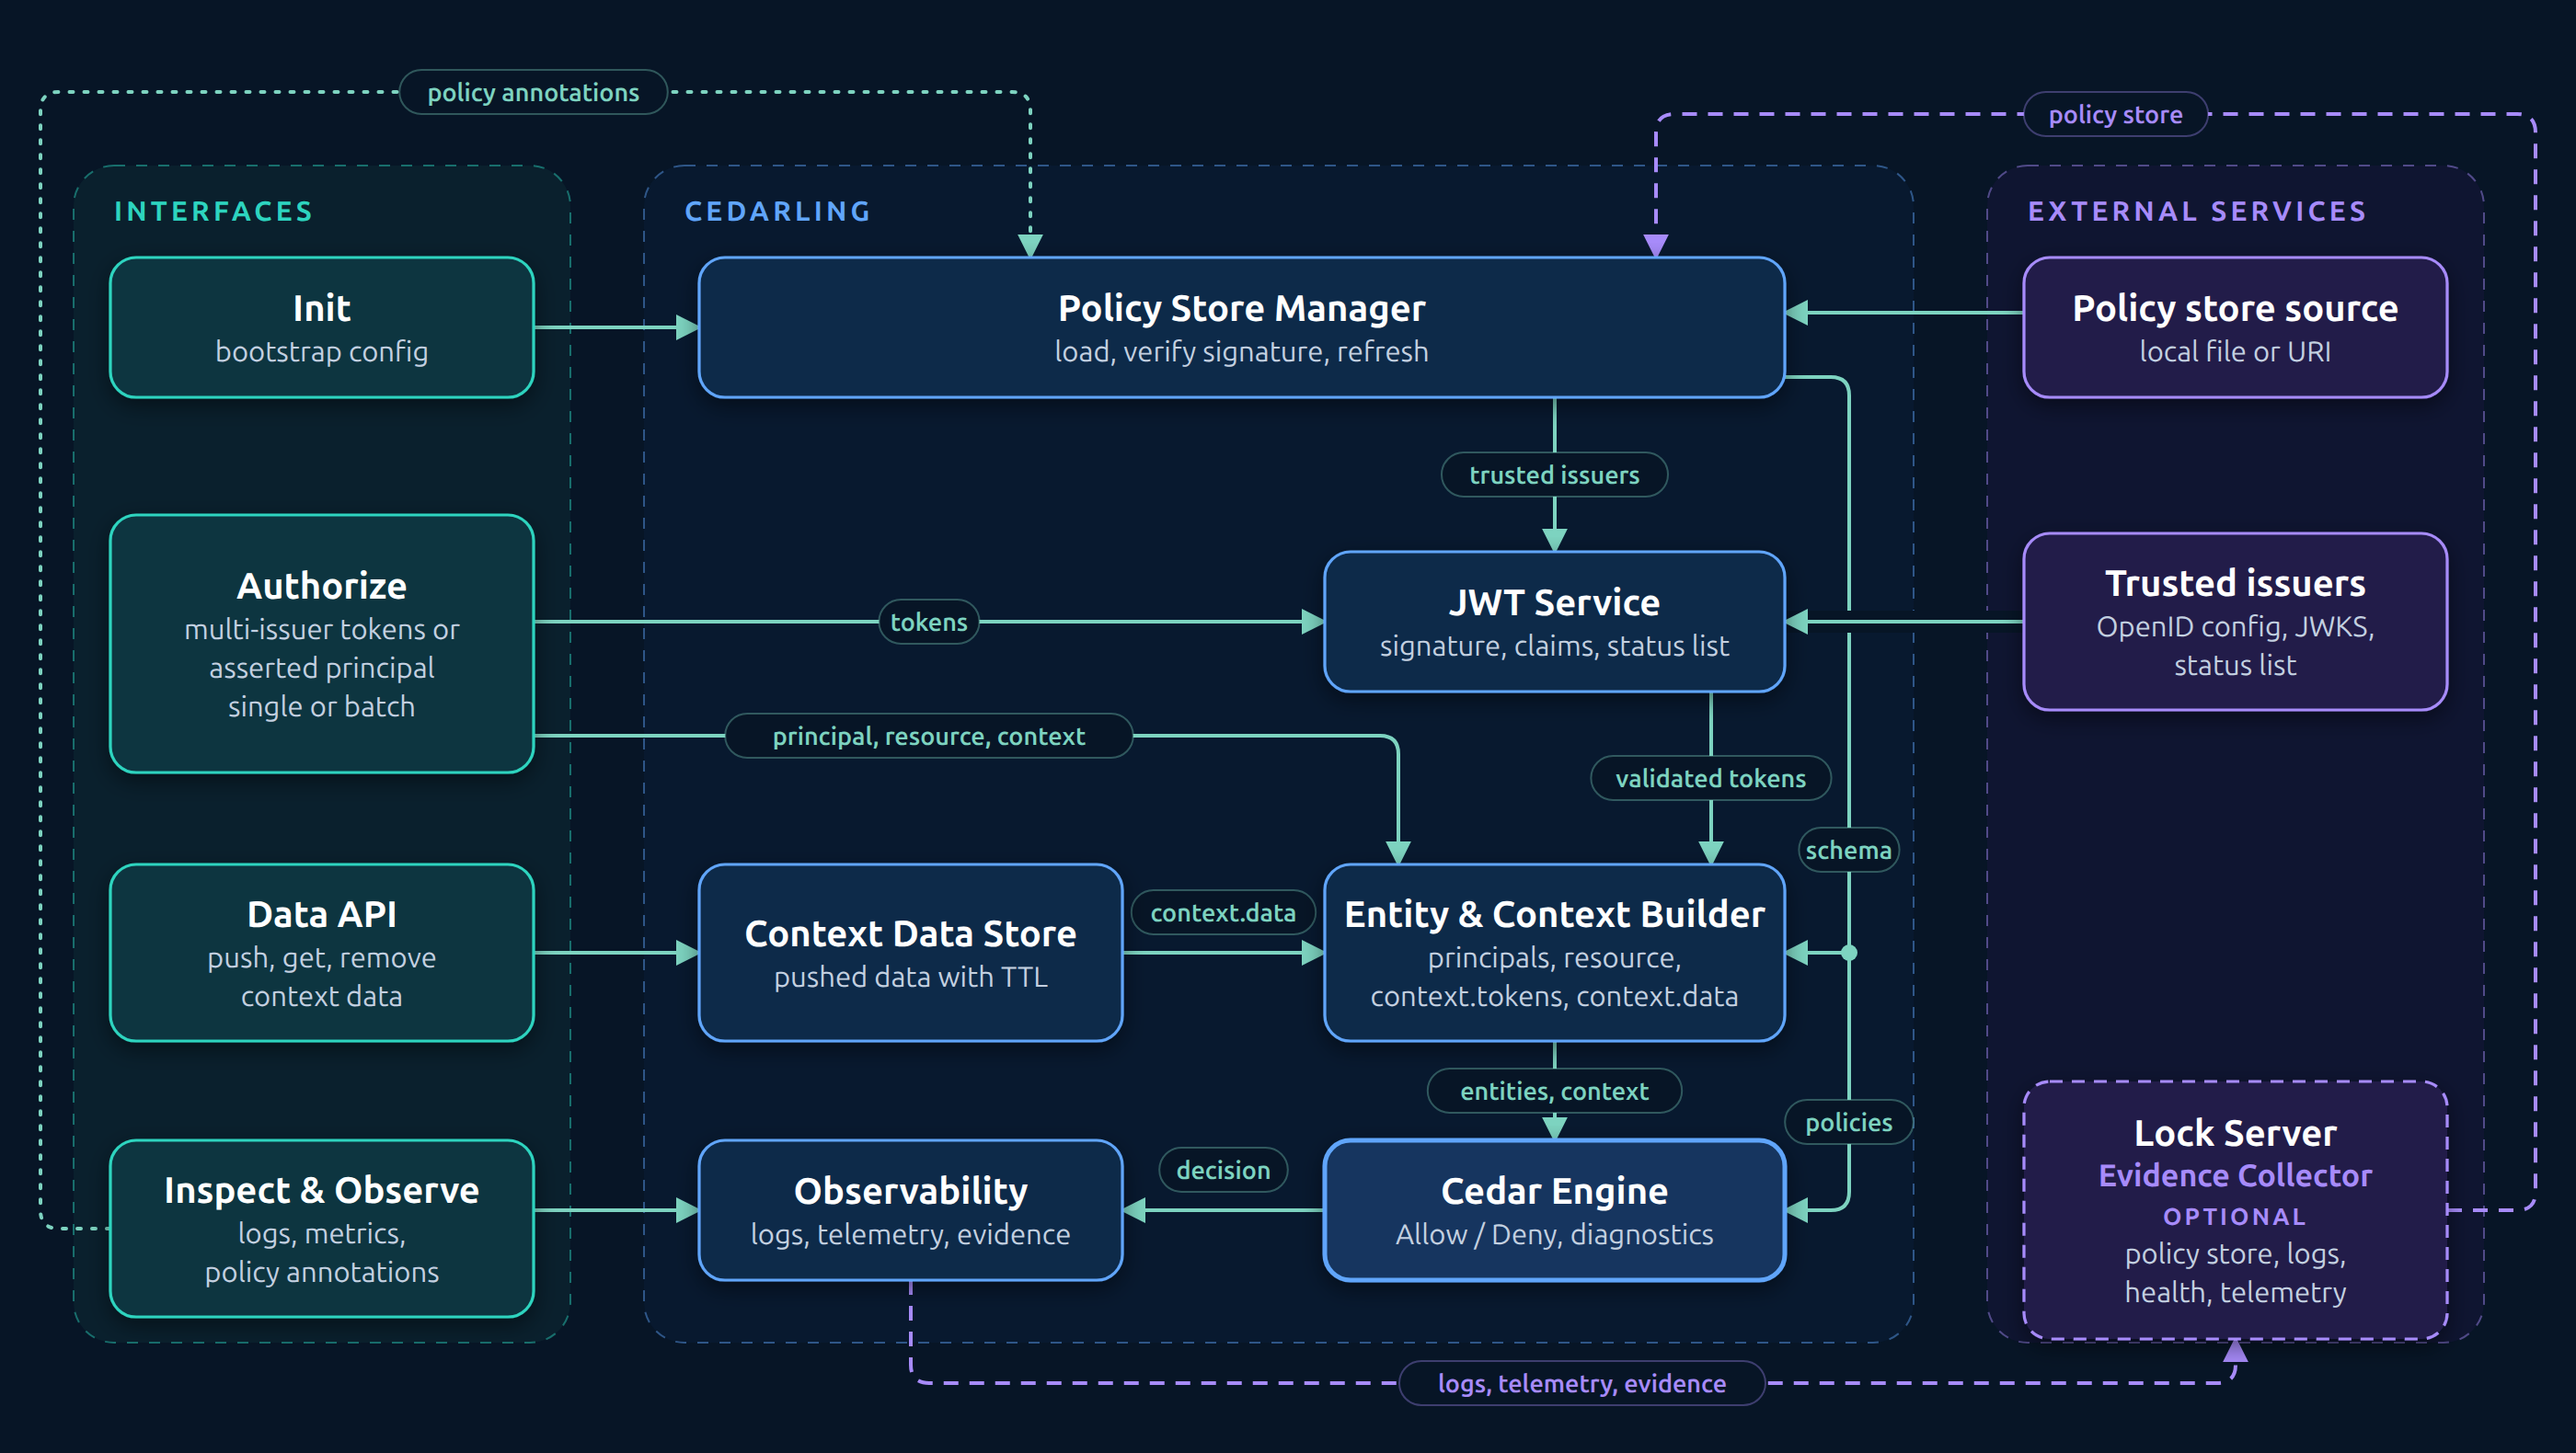
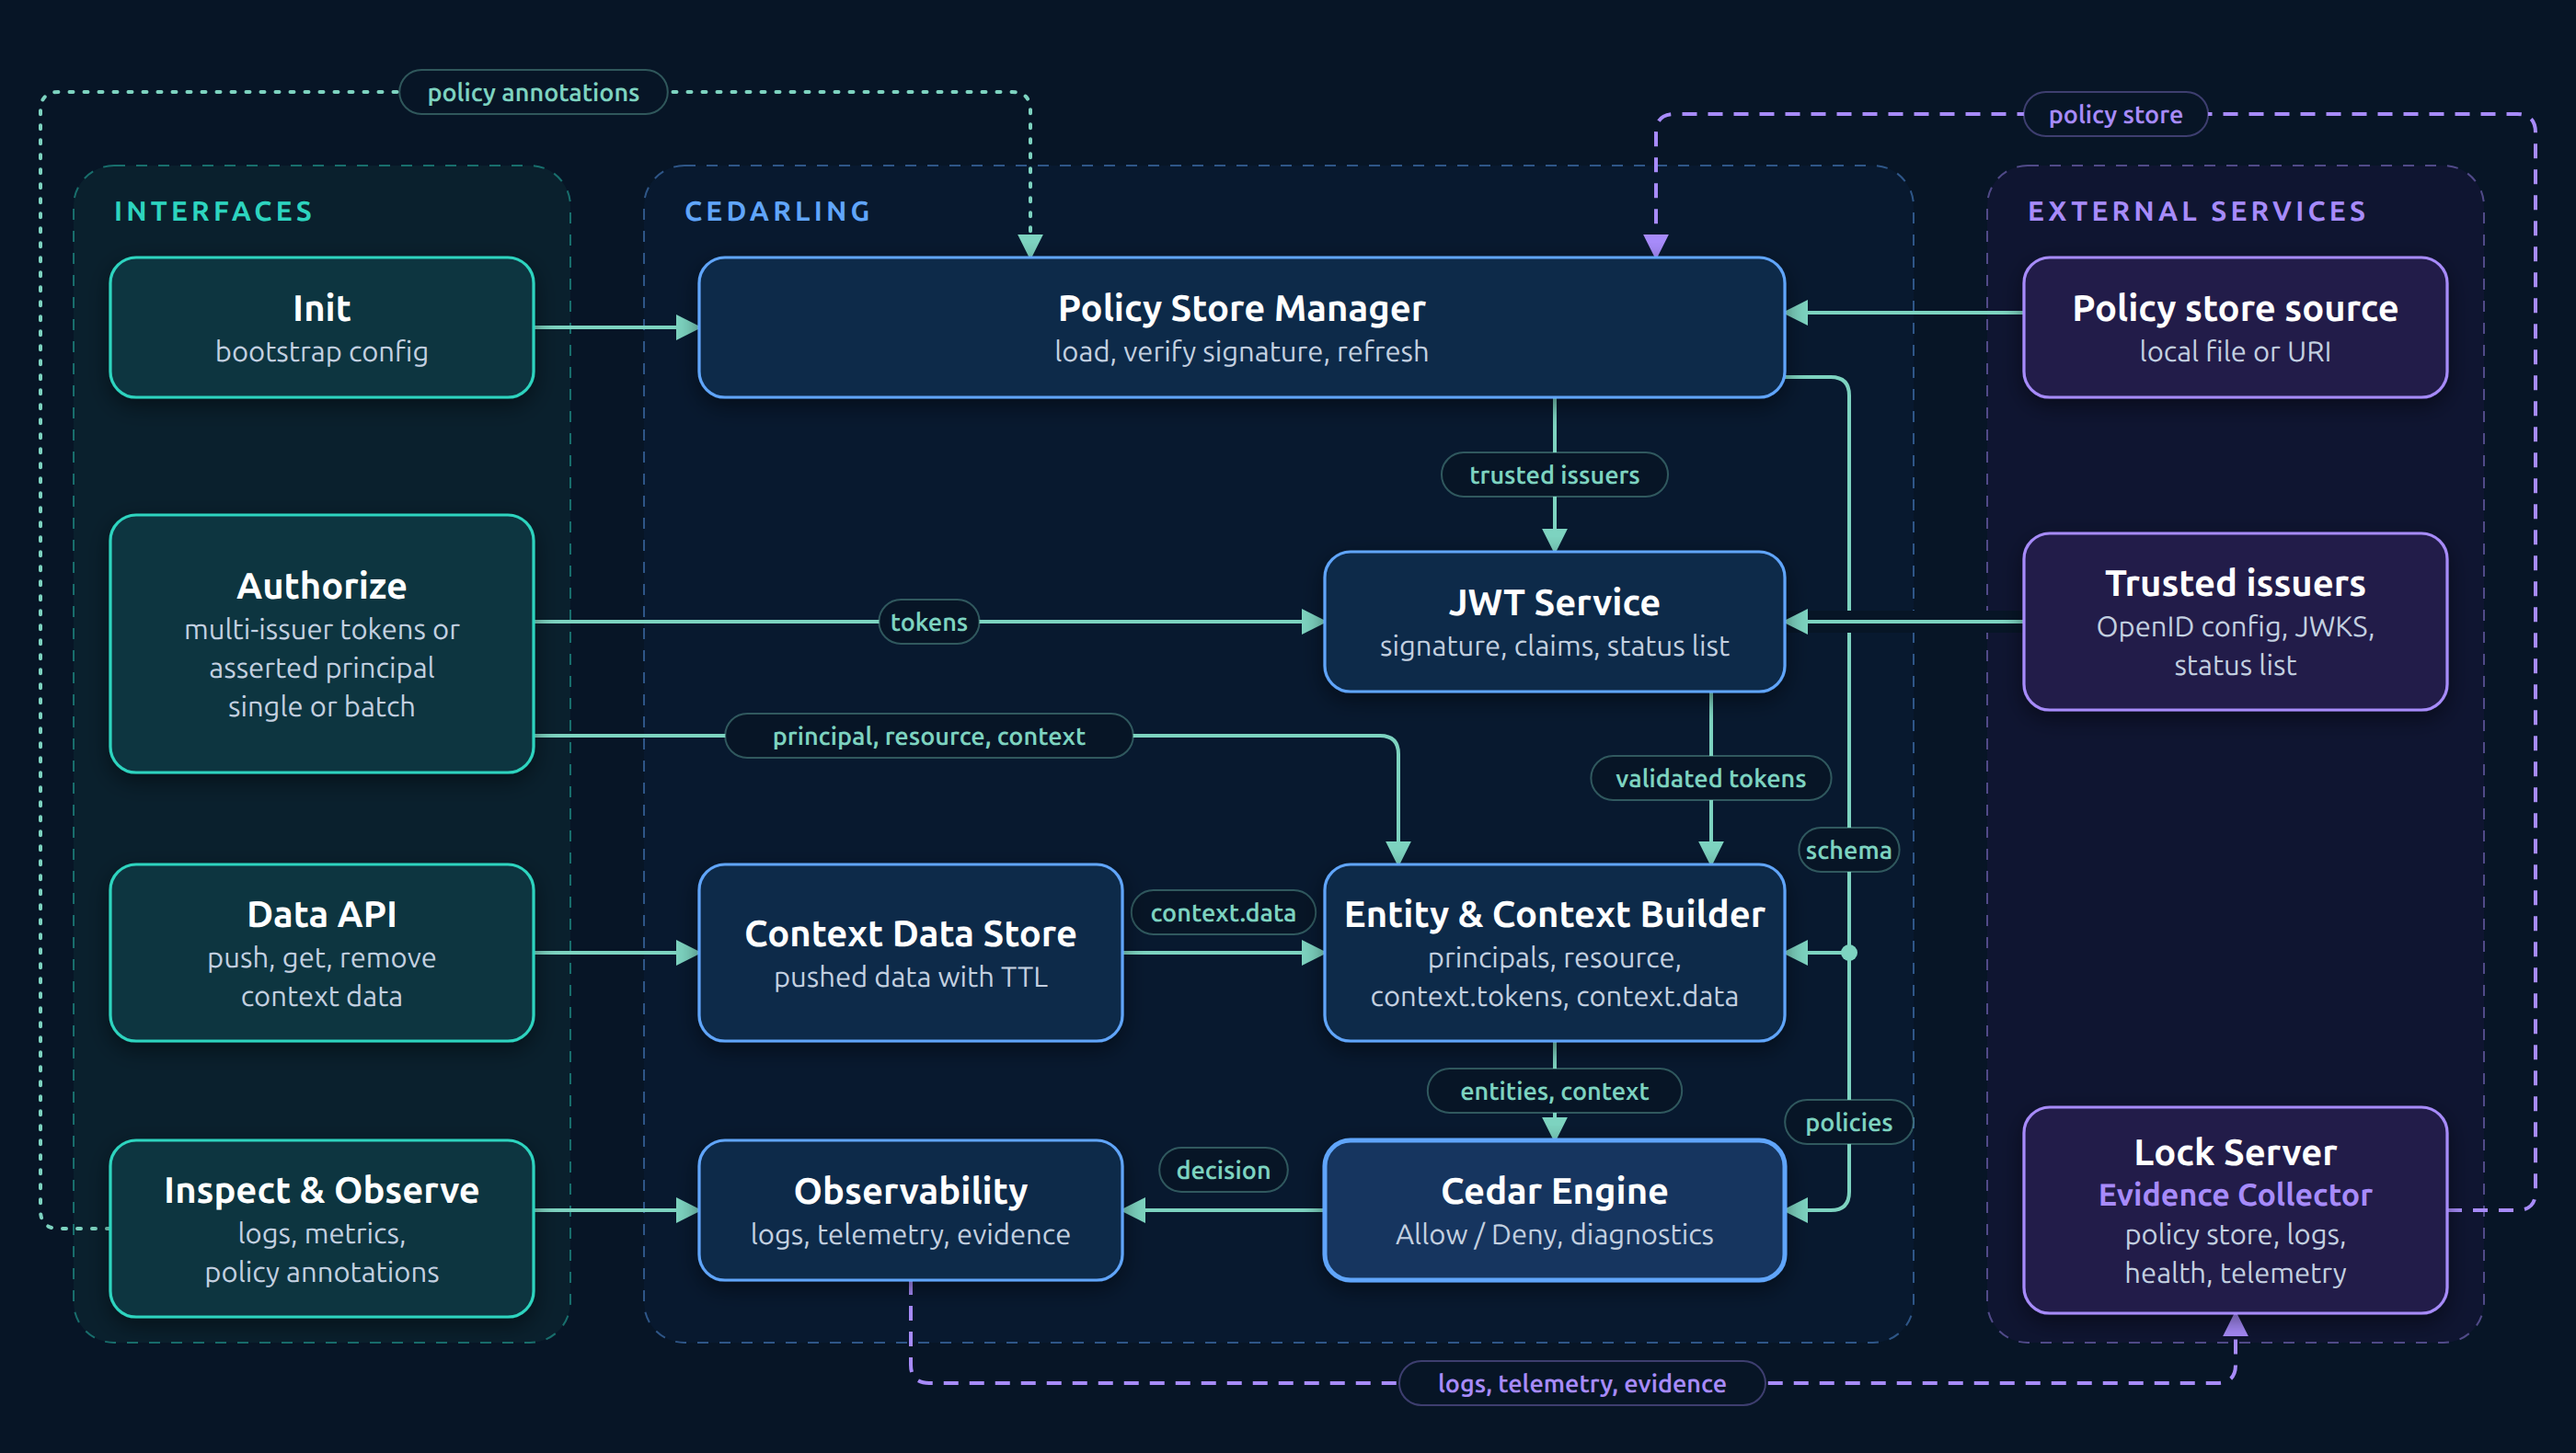
docs(jans-cedarling): show evidence flow in components diagram
Rename "Logs & Metrics" to "Observability" with logs, telemetry and
evidence, and label Lock Server as the evidence collector, so the
diagram shows that signed TRACE decision records go to Lock Server
alongside logs and telemetry.

Changed region(s): [[0.7768, 0.7443, 0.9632, 0.9304]]

diff --git a/jans-cedarling/scripts/render_components_diagram.py b/jans-cedarling/scripts/render_components_diagram.py
@@ -75,9 +75,9 @@ NODES = {
                "title": "Policy store source", "desc": ["local file or URI"]},
     "issuers": {"group": "external", "box": (1100, 290, 230, 96),
                 "title": "Trusted issuers", "desc": ["OpenID config, JWKS,", "status list"]},
-    "lock": {"group": "external", "box": (1100, 588, 230, 140), "optional": True,
+    "lock": {"group": "external", "box": (1100, 602, 230, 112),
              "title": "Lock Server", "role": "Evidence Collector",
-             "desc": ["optional", "policy store, logs,", "health, telemetry"]},
+             "desc": ["policy store, logs,", "health, telemetry"]},
 }
 
 # Each edge is a polyline; the last point carries the arrowhead. Edges listed
@@ -100,7 +100,7 @@ EDGES = [
     {"points": [(845, 566), (845, 620)], "label": "entities, context", "at": (845, 593)},
     {"points": [(720, 658), (610, 658)], "label": "decision", "at": (665, 636)},
     {"points": [(290, 658), (380, 658)]},
-    {"points": [(495, 696), (495, 752), (1215, 752), (1215, 728)],
+    {"points": [(495, 696), (495, 752), (1215, 752), (1215, 714)],
      "label": "logs, telemetry, evidence", "at": (860, 752), "optional": True},
     {"points": [(1330, 658), (1378, 658), (1378, 62), (900, 62), (900, 140)],
      "label": "policy store", "at": (1150, 62), "optional": True},
@@ -146,21 +146,16 @@ def render_node(node):
     style = GROUPS[node["group"]]
     x, y, w, h = node["box"]
     stroke_width = 2.5 if node.get("emphasis") else 1.6
-    dash = ' stroke-dasharray="7 5"' if node.get("optional") else ""
     fill = "#14365e" if node.get("emphasis") else style["node"]
     parts = [
         f'<rect x="{x}" y="{y}" width="{w}" height="{h}" rx="14" fill="{fill}" '
-        f'stroke="{style["accent"]}" stroke-width="{stroke_width}"{dash} filter="url(#shadow)"/>'
+        f'stroke="{style["accent"]}" stroke-width="{stroke_width}" filter="url(#shadow)"/>'
     ]
 
     lines = []
     if "role" in node:
         lines.append((node["role"], "role", style["accent"]))
-    for i, line in enumerate(node["desc"]):
-        if node.get("optional") and i == 0:
-            lines.append((line, "desc tag", style["accent"]))
-        else:
-            lines.append((line, "desc", DESC_COLOR))
+    lines += [(line, "desc", DESC_COLOR) for line in node["desc"]]
 
     title_height, line_height = 26, 21
     block = title_height + line_height * len(lines)
@@ -229,8 +224,6 @@ def render_svg():
         ".title { font-size: 20px; font-weight: 700; }"
         ".desc { font-size: 15.5px; }"
         ".role { font-size: 17px; font-weight: 700; }"
-        ".tag { font-size: 13px; font-weight: 700; letter-spacing: 0.12em;"
-        " text-transform: uppercase; }"
         ".edge { font-size: 13.5px; font-weight: 600; }"
         "</style>"
     )
